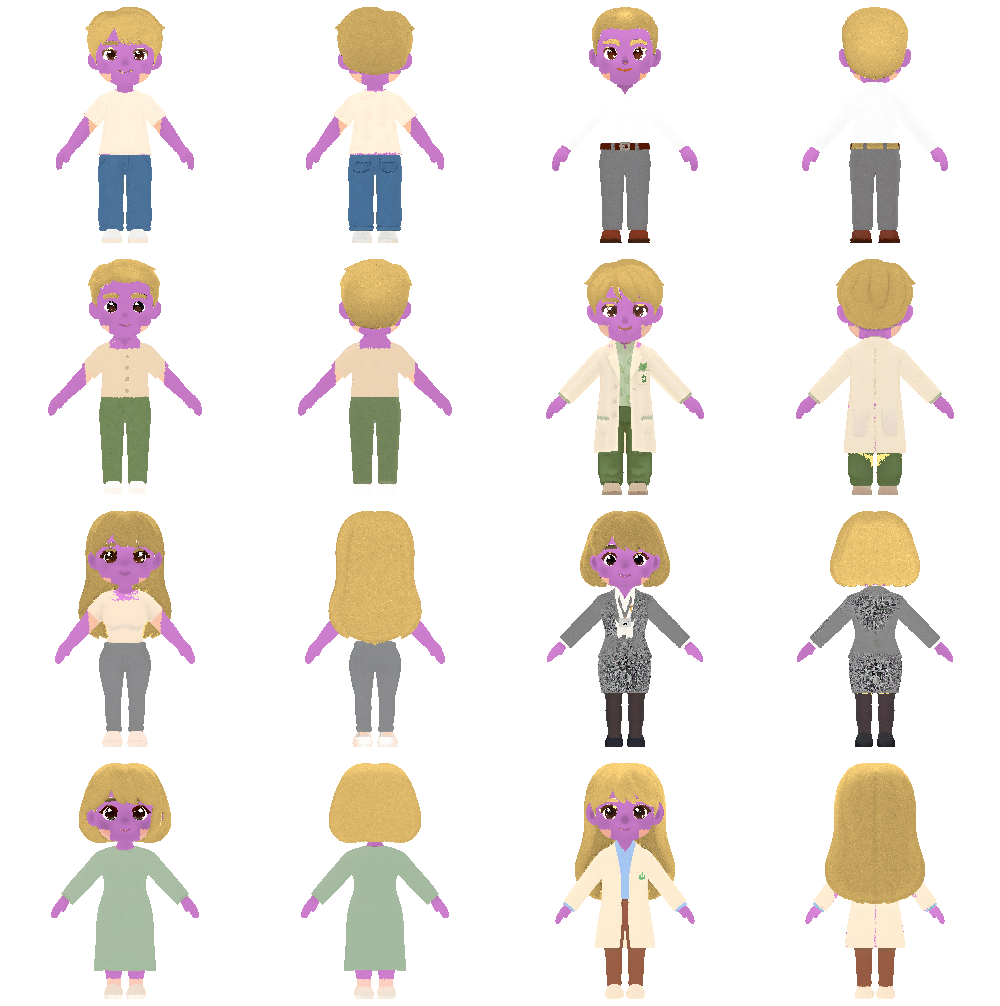
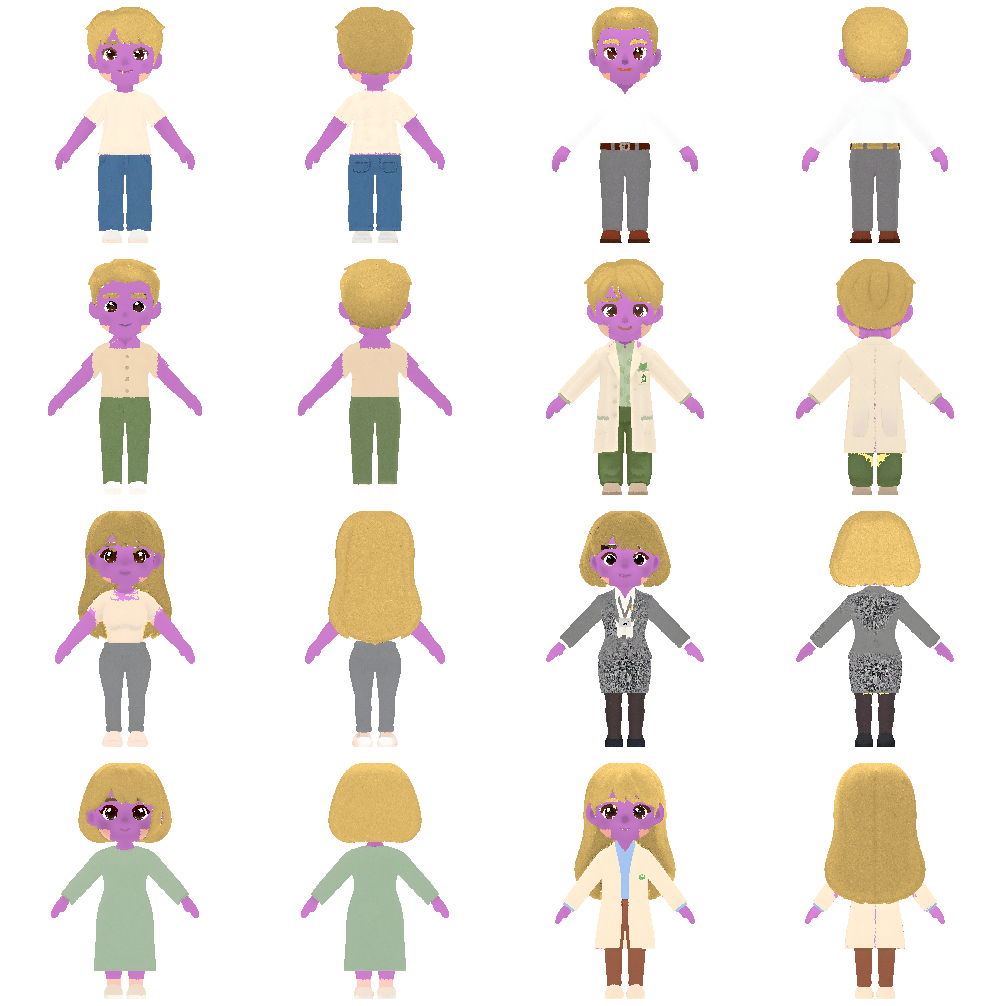
fix(char): 눈꺼풀에 머리색 들어가던 문제 + 피부 누락 복구
1) 눈꺼풀·속눈썹에 머리색이 들어갔다. 눈 영역을 높이(흰자 상하 18%)로
   잘랐더니 눈꺼풀과 속눈썹이 눈에서 빠졌고, 진갈색이라 머리로 흡수됐다.

   높이 대신 연결성으로 바꿨다. 흰자를 씨앗으로 형태학적 재구성
   (binary_propagation)을 해서 흰자에 이어진 덩어리만 눈으로 본다.
   눈썹은 사이에 피부가 있어 끊겨 있으므로 딸려오지 않는다.

2) 피부가 군데군데 빠졌다.
   - 팔 허용을 폭 0.52 로 좁혀서 윗팔이 통째로 빠졌다. 0.42 로 되돌렸다.
     앞서 이걸 좁힌 이유(남주부 셔츠)는 목 구간을 폭 0.20 으로 제한하면서
     이미 해결됐다 - 등판이 더는 피부로 잡히지 않는다.
   - 색 임계 44 가 음영진 피부와 볼터치를 놓쳐 얼굴에 얼룩이 남았다. 58 로 넓혔다.

tools/preview_recolor.py 추가: 색 교체 결과를 3D 정사영으로 렌더한다.
뷰어와 같은 알고리즘(명도비 보존)이라 여기서 맞으면 뷰어에서도 맞다.
앞/뒤 8종 + 얼굴 확대 4종으로 확인했다.

diff --git a/tools/preview_recolor.py b/tools/preview_recolor.py
@@ -1,0 +1,105 @@
+#!/usr/bin/env python
+"""
+마스크를 적용한 색 교체 결과를 3D 정사영으로 렌더한다.
+
+브라우저를 띄우지 않고 마스크가 맞는지 확인하기 위한 도구. 뷰어와 같은
+알고리즘(명도비 보존)을 쓰므로 여기서 맞으면 뷰어에서도 맞다.
+
+사용법
+  python preview_recolor.py            # 8종 앞/뒤, 머리=금발 피부=보라
+  python preview_recolor.py --face     # 얼굴 확대 4종
+"""
+import os
+import sys
+
+import numpy as np
+from PIL import Image, ImageDraw
+
+HERE = os.path.dirname(os.path.abspath(__file__))
+ROOT = os.path.dirname(HERE)
+sys.path.insert(0, HERE)
+from make_part_mask import read_glb, CODE, CHARS  # noqa: E402
+
+MASKS = os.path.join(ROOT, "assets", "characters", "masks")
+SRC = os.path.join(ROOT, "assets", "characters", "3d")
+
+
+def recolor(char, changes):
+    """뷰어와 동일: 부위 텍셀의 명도비를 목표색에 곱한다."""
+    pos, uv, idx, tex = read_glb(os.path.join(SRC, f"{char}_base.glb"))
+    a = np.asarray(tex).astype(np.float32)
+    code = np.asarray(Image.open(os.path.join(MASKS, f"{char}_mask.png")))[..., 0].astype(int)
+    out = a.copy()
+    for part, rgb in changes.items():
+        m = np.abs(code - CODE[part]) <= 10
+        if m.sum() < 50:
+            continue
+        lum = a[m].mean(axis=1, keepdims=True)
+        avg = max(a[m].mean(), 1e-3)
+        out[m] = np.clip(np.array(rgb, np.float32) * (lum / avg), 0, 255)
+    return pos, uv, idx, Image.fromarray(out.astype(np.uint8))
+
+
+def draw(pos, uv, idx, tex, size, view="front", zoom=None):
+    S = tex.size[0]
+    texa = np.asarray(tex)
+    uc = uv[idx].mean(axis=1)
+    cols = texa[np.clip((uc[:, 1] * S).astype(int), 0, S - 1),
+                np.clip((uc[:, 0] * S).astype(int), 0, S - 1)]
+    if view == "front":
+        u, v_, dep = pos[:, 0], pos[:, 1], pos[:, 2]
+    else:
+        u, v_, dep = -pos[:, 0], pos[:, 1], -pos[:, 2]
+    lo = np.array([u.min(), v_.min()])
+    hi = np.array([u.max(), v_.max()])
+    H = hi[1] - lo[1]
+    if zoom:                       # (중심 높이비, 담을 높이비)
+        cy, span = lo[1] + H * zoom[0], H * zoom[1]
+    else:
+        cy, span = (lo[1] + hi[1]) / 2, H * 1.06
+    sc = size / span
+    cx = (lo[0] + hi[0]) / 2
+    sx = (u - cx) * sc + size / 2
+    sy = size / 2 - (v_ - cy) * sc
+    img = Image.new("RGB", (size, size), (255, 255, 255))
+    d = ImageDraw.Draw(img)
+    for f in np.argsort(dep[idx].mean(axis=1)):        # 뒤 -> 앞
+        A, B, C = idx[f]
+        c = tuple(int(x) for x in cols[f])
+        d.polygon([(sx[A], sy[A]), (sx[B], sy[B]), (sx[C], sy[C])], fill=c, outline=c)
+    return img
+
+
+# 오류가 바로 보이도록 원본과 동떨어진 색을 쓴다
+CH = {"hair": (216, 180, 104), "skin": (196, 120, 196)}
+
+
+def main():
+    face = "--face" in sys.argv
+    if face:
+        names = ["char_namja_jachwi", "char_yeoja_gajang",
+                 "char_jachwi_f", "char_yeoja_researcher"]
+        W = 340
+        sheet = Image.new("RGB", (W * len(names), W), (255, 255, 255))
+        for i, n in enumerate(names):
+            p, u, idx, t = recolor(n, CH)
+            sheet.paste(draw(p, u, idx, t, W, "front", (0.845, 0.30)), (i * W, 0))
+        out = os.path.join(MASKS, "_preview_face.png")
+    else:
+        names = CHARS
+        W = 250
+        sheet = Image.new("RGB", (W * 4, W * 4 + 6), (255, 255, 255))
+        for i, n in enumerate(names):
+            p, u, idx, t = recolor(n, CH)
+            r, col = divmod(i, 2)
+            sheet.paste(draw(p, u, idx, t, W, "front"), (col * 2 * W, r * (W + 2)))
+            sheet.paste(draw(p, u, idx, t, W, "back"), (col * 2 * W + W, r * (W + 2)))
+        out = os.path.join(MASKS, "_preview_check.png")
+    sheet.save(out)
+    print("  ->", out)
+    print("  " + ", ".join(n.replace("char_", "") for n in names))
+    return 0
+
+
+if __name__ == "__main__":
+    sys.exit(main())
